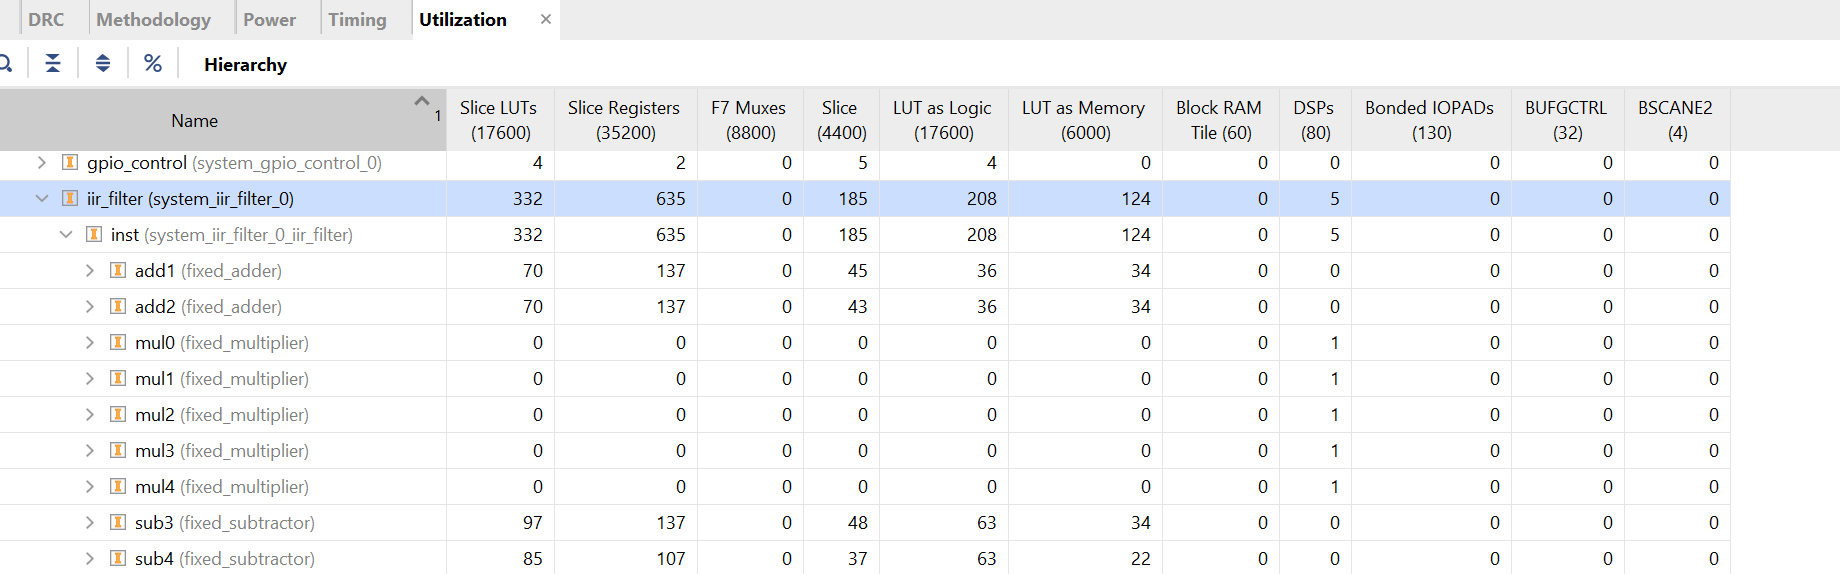
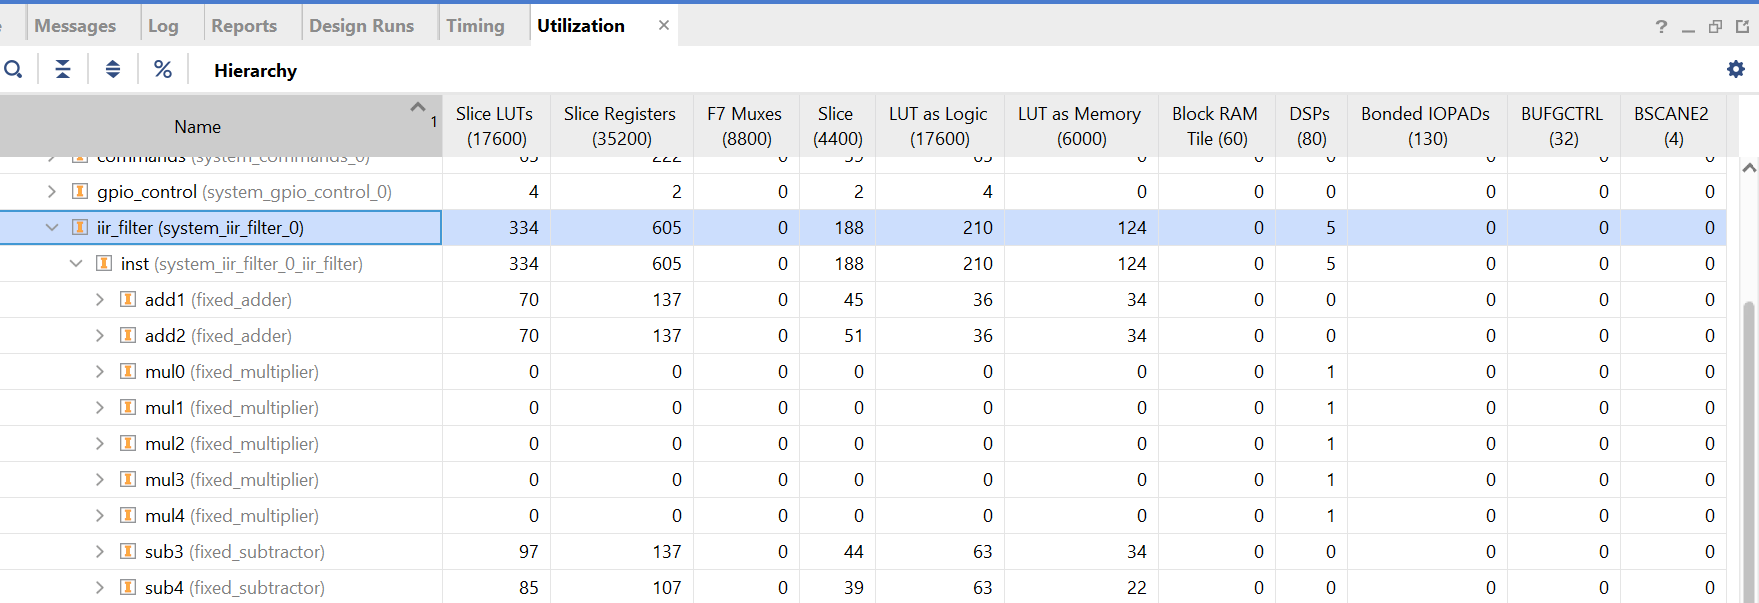
Fractions in FPGA: counter instead of busy shift register, new utilization, schematic removed

diff --git a/posts/on-request/fixed-point-scaling.md b/posts/on-request/fixed-point-scaling.md
@@ -179,13 +179,13 @@ Below is the resource usage for the practical example we'll do later, we create 
 
 ![](images/fixed-point-scaling/fig23_fp16_utilization.png)
 
-**Figure 4: FP16: 523 LUTs, 1122 registers, 13 DSPs**
+**Figure 4: FP16: 525 LUTs, 1092 registers, 13 DSPs**
 
 ![](images/fixed-point-scaling/fig22_q2_14_utilization.png)
 
-**Figure 5: Fixed point Q2.14: 332 LUTs, 635 registers, 5 DSPs**
+**Figure 5: Fixed point Q2.14: 334 LUTs, 605 registers, 5 DSPs**
 
-Compared to FP16, the fixed point filter uses 37% fewer LUTs, 43% fewer registers and 62% fewer DSPs (5 instead of 13) for the same application.
+Compared to FP16, the fixed point filter uses 36% fewer LUTs, 45% fewer registers and 62% fewer DSPs (5 instead of 13) for the same application.
 
 ## **3. Practical Example** {#sec-3}
 
@@ -455,11 +455,11 @@ module iir_filter (
     wire signed [31:0] p0, p1, p2, p3, p4; // Q2.14 * Q2.14 = Q4.28
     wire signed [35:0] s1, s2, s3, sum;    // Q8.28: 1 extra bit per addition
     wire signed [15:0] y;                  // Q2.14
-    reg  [LATENCY:0] busy;                 // where the sample is in the pipeline
+    reg  [5:0] count;                      // clocks until y is ready, 0 = idle
 
-    assign in_ready = !reset && busy == 0;
+    assign in_ready = !reset && count == 0;
 
-    // x, x1, x2, y1 and y2 do not change while busy, so no delay lines are needed.
+    // x, x1, x2, y1 and y2 don't change until y is ready, so no delay lines are needed.
     fixed_multiplier mul0 (.CLK(clk), .A(x),  .B(B0), .P(p0));
     fixed_multiplier mul1 (.CLK(clk), .A(x1), .B(B1), .P(p1));
     fixed_multiplier mul2 (.CLK(clk), .A(x2), .B(B2), .P(p2));
@@ -480,18 +480,21 @@ module iir_filter (
 
     always @(posedge clk) begin
         if (reset) begin
-            busy <= 0;
+            count     <= 0;
             out_valid <= 0;
-            out_data <= 0;
+            out_data  <= 0;
             x <= 0; x1 <= 0; x2 <= 0; y1 <= 0; y2 <= 0;
         end else begin
-            busy <= {busy[LATENCY-1:0], in_valid && in_ready};
-            out_valid <= busy[LATENCY];
+            if (in_valid && in_ready) begin
+                x     <= in_data;          // take the new sample
+                count <= LATENCY + 1;      // IP latency + 1 clock to store y
+            end else if (count != 0) begin
+                count <= count - 1;
+            end
 
-            if (in_valid && in_ready)
-                x <= in_data;
+            out_valid <= (count == 1);
 
-            if (busy[LATENCY]) begin       // y is ready
+            if (count == 1) begin          // y is ready
                 out_data <= y;
                 x2 <= x1; x1 <= x;
                 y2 <= y1; y1 <= y;
@@ -505,13 +508,13 @@ We model the same system as in Matlab, and as we know we don't need any special 
 
 - `W = 16; F = 14;` → `reg signed [15:0] x, x1, x2, y1, y2;` (line 19). 16 bit signed registers; the 14 fraction bits only exist in our heads, the hardware just sees integers.
 - `b = fi(b, T, M); a = fi(a, T, M);` → `coefficients.vh` (line 14). The same Q2.14 coefficients, exported from MATLAB as `B0` to `A2`.
-- `x = fi(x, T, M);` → `x <= in_data;` (line 57). The samples already arrive in Q2.14.
+- `x = fi(x, T, M);` → `x <= in_data;` (line 54). The samples already arrive in Q2.14.
 - `x1 = 0; x2 = 0; y1 = 0; y2 = 0;` → the reset (line 51).
 - `b(1)*x(n)` to `a(3)*y2` → `mul0` to `mul4` (lines 28–32). One multiplier per term, 16 × 16 → 32 bit Q4.28, same as in MATLAB.
 - the `+` and `−` in `value` → `add1`, `add2`, `sub3`, `sub4` (lines 37–40). A 36 bit Q8.28 `sum`, the same size as `value`.
 - `y(n) = fi(value, T, M);` → `assign y = sum;` (line 43). Back to 16 bits: the 36 bit sum is connected straight to the 16 bit `y`. Verilog keeps the lowest 16 bits, `sum[15:0]`, and drops the top 20. The simulator compiles it with no error and no warning.
-- `x2 = x1; x1 = x(n); y2 = y1; y1 = y(n);` → the same lines with `<=` (lines 61–62). The delays, z⁻¹ in the figure.
-- `for n = 1:length(x)` → `in_valid`, `in_ready`, `out_valid` and `busy`. One sample at a time; this part only moves the samples through the pipeline and is the same in every version below.
+- `x2 = x1; x1 = x(n); y2 = y1; y1 = y(n);` → the same lines with `<=` (lines 64–65). The delays, z⁻¹ in the figure.
+- `for n = 1:length(x)` → `in_valid`, `in_ready`, `out_valid` and `count`. One sample at a time; this part only moves the samples through the pipeline and is the same in every version below.
 - The plot scale here is ±2.05 instead of ±1.5, so the output fits.
 
 ##### **Simulation**
@@ -547,11 +550,11 @@ module iir_filter (
     wire signed [31:0] p0, p1, p2, p3, p4; // Q2.14 * Q2.14 = Q4.28
     wire signed [35:0] s1, s2, s3, sum;    // Q8.28: 1 extra bit per addition
     wire signed [15:0] y;                  // Q2.14
-    reg  [LATENCY:0] busy;                 // where the sample is in the pipeline
+    reg  [5:0] count;                      // clocks until y is ready, 0 = idle
 
-    assign in_ready = !reset && busy == 0;
+    assign in_ready = !reset && count == 0;
 
-    // x, x1, x2, y1 and y2 do not change while busy, so no delay lines are needed.
+    // x, x1, x2, y1 and y2 don't change until y is ready, so no delay lines are needed.
     fixed_multiplier mul0 (.CLK(clk), .A(x),  .B(B0), .P(p0));
     fixed_multiplier mul1 (.CLK(clk), .A(x1), .B(B1), .P(p1));
     fixed_multiplier mul2 (.CLK(clk), .A(x2), .B(B2), .P(p2));
@@ -572,18 +575,21 @@ module iir_filter (
 
     always @(posedge clk) begin
         if (reset) begin
-            busy <= 0;
+            count     <= 0;
             out_valid <= 0;
-            out_data <= 0;
+            out_data  <= 0;
             x <= 0; x1 <= 0; x2 <= 0; y1 <= 0; y2 <= 0;
         end else begin
-            busy <= {busy[LATENCY-1:0], in_valid && in_ready};
-            out_valid <= busy[LATENCY];
+            if (in_valid && in_ready) begin
+                x     <= in_data;          // take the new sample
+                count <= LATENCY + 1;      // IP latency + 1 clock to store y
+            end else if (count != 0) begin
+                count <= count - 1;
+            end
 
-            if (in_valid && in_ready)
-                x <= in_data;
+            out_valid <= (count == 1);
 
-            if (busy[LATENCY]) begin       // y is ready
+            if (count == 1) begin          // y is ready
                 out_data <= y;
                 x2 <= x1; x1 <= x;
                 y2 <= y1; y1 <= y;
@@ -610,7 +616,7 @@ This is the main thing that needs to be handled differently from normal integer 
 
 The sum coming out of the adders is 36 bits, Q8.28: the sign and 7 integer bits, then 28 fraction bits. So its binary point sits between bit 28 and bit 27. Our output `y` is Q2.14, so the 16 bits we keep have to sit around that same binary point: 2 bits above it (the sign and the integer bit) and 14 below it.
 
-Let's take one real sum from our filter, sample 68, the output peak where the cursor is in Figure 15. Its value is 1.0019834, and in bits:
+Let's take one real sum from our filter, sample 68, the output peak where the cursor is in Figure 14. Its value is 1.0019834, and in bits:
 
 ```
              integer bits             fraction bits
@@ -671,11 +677,11 @@ module iir_filter (
     wire signed [31:0] p0, p1, p2, p3, p4; // Q2.14 * Q2.14 = Q4.28
     wire signed [35:0] s1, s2, s3, sum;    // Q8.28: 1 extra bit per addition
     wire signed [15:0] y;                  // Q2.14
-    reg  [LATENCY:0] busy;                 // where the sample is in the pipeline
+    reg  [5:0] count;                      // clocks until y is ready, 0 = idle
 
-    assign in_ready = !reset && busy == 0;
+    assign in_ready = !reset && count == 0;
 
-    // x, x1, x2, y1 and y2 do not change while busy, so no delay lines are needed.
+    // x, x1, x2, y1 and y2 don't change until y is ready, so no delay lines are needed.
     fixed_multiplier mul0 (.CLK(clk), .A(x),  .B(B0), .P(p0));
     fixed_multiplier mul1 (.CLK(clk), .A(x1), .B(B1), .P(p1));
     fixed_multiplier mul2 (.CLK(clk), .A(x2), .B(B2), .P(p2));
@@ -701,18 +707,21 @@ module iir_filter (
 
     always @(posedge clk) begin
         if (reset) begin
-            busy <= 0;
+            count     <= 0;
             out_valid <= 0;
-            out_data <= 0;
+            out_data  <= 0;
             x <= 0; x1 <= 0; x2 <= 0; y1 <= 0; y2 <= 0;
         end else begin
-            busy <= {busy[LATENCY-1:0], in_valid && in_ready};
-            out_valid <= busy[LATENCY];
+            if (in_valid && in_ready) begin
+                x     <= in_data;          // take the new sample
+                count <= LATENCY + 1;      // IP latency + 1 clock to store y
+            end else if (count != 0) begin
+                count <= count - 1;
+            end
 
-            if (in_valid && in_ready)
-                x <= in_data;
+            out_valid <= (count == 1);
 
-            if (busy[LATENCY]) begin       // y is ready
+            if (count == 1) begin          // y is ready
                 out_data <= y;
                 x2 <= x1; x1 <= x;
                 y2 <= y1; y1 <= y;
@@ -726,21 +735,17 @@ endmodule
 - Truncation wiring: keeps bits [29:14] of the 36 bit Q8.28 sum. That drops the lowest 14 bits (the extra fraction bits) and the top 6 bits (the extra integer bits), leaving 16 bit Q2.14. This is what `fi(value, T, M)` does in MATLAB.
 - No rounding and no saturation: dropping the low bits rounds down, and dropping the top bits is safe because with the correct format they are only copies of the sign bit.
 
-<div style="overflow-x:auto"><img src="images/fixed-point-scaling/fig07c_iir_q2_14_elaborated_datapath.png" style="height:500px;max-width:none"></div>
-
-**Figure 14: Elaborated schematic of the Q2.14 filter in Vivado**
-
 ##### **Simulation**
 
 ![](images/fixed-point-scaling/fig15_vivado_q2_14.png)
 
-**Figure 15: Simulation of `assign y = sum[29:14];`, output RMS: 0.698438**
+**Figure 14: Simulation of `assign y = sum[29:14];`, output RMS: 0.698438**
 
 ##### **On Board Testing**
 
 ![](images/fixed-point-scaling/fig20_board_q2_14.png)
 
-**Figure 16: ILA capture on the Zybo, output RMS: 0.698438**
+**Figure 15: ILA capture on the Zybo, output RMS: 0.698438**
 
 #### **Floating Point (FP16)**
 
@@ -769,11 +774,11 @@ module iir_filter (
     wire [15:0] p0, p1, p2, p3, p4;        // FP16 * FP16 = FP16 (rounded by the IP)
     wire [15:0] s1, s2, s3;                // running sum, FP16
     wire [15:0] y;                         // FP16
-    reg  [LATENCY:0] busy;                 // where the sample is in the pipeline
+    reg  [5:0] count;                      // clocks until y is ready, 0 = idle
 
-    assign in_ready = !reset && busy == 0;
+    assign in_ready = !reset && count == 0;
 
-    // x, x1, x2, y1 and y2 do not change while busy, so no delay lines are needed.
+    // x, x1, x2, y1 and y2 don't change until y is ready, so no delay lines are needed.
     fp_multiplier mul0 (.aclk(clk), .s_axis_a_tvalid(1'b1), .s_axis_a_tdata(x),
                         .s_axis_b_tvalid(1'b1), .s_axis_b_tdata(B0), .m_axis_result_tdata(p0));
     fp_multiplier mul1 (.aclk(clk), .s_axis_a_tvalid(1'b1), .s_axis_a_tdata(x1),
@@ -801,18 +806,21 @@ module iir_filter (
 
     always @(posedge clk) begin
         if (reset) begin
-            busy <= 0;
+            count     <= 0;
             out_valid <= 0;
-            out_data <= 0;
+            out_data  <= 0;
             x <= 0; x1 <= 0; x2 <= 0; y1 <= 0; y2 <= 0;
         end else begin
-            busy <= {busy[LATENCY-1:0], in_valid && in_ready};
-            out_valid <= busy[LATENCY];
+            if (in_valid && in_ready) begin
+                x     <= in_data;          // take the new sample
+                count <= LATENCY + 1;      // IP latency + 1 clock to store y
+            end else if (count != 0) begin
+                count <= count - 1;
+            end
 
-            if (in_valid && in_ready)
-                x <= in_data;
+            out_valid <= (count == 1);
 
-            if (busy[LATENCY]) begin       // y is ready
+            if (count == 1) begin          // y is ready
                 out_data <= y;
                 x2 <= x1; x1 <= x;
                 y2 <= y1; y1 <= y;
@@ -827,26 +835,26 @@ endmodule
 - `fp_multiplier`: AMD Floating-Point IP set to multiply, 3 cycles, in place of the Multiplier IP.
 - `fp_adder`, `fp_subtractor`: the same IP set to add and subtract, 8 cycles. Same number of IPs and same latency as the fixed point version.
 - The adds are in the same order as in MATLAB, because every result is rounded to FP16 and the order changes the result.
-- `s_axis_a_tvalid(1'b1)`: the IP inputs are always valid, `busy` does the timing instead.
+- `s_axis_a_tvalid(1'b1)`: the IP inputs are always valid, `count` does the timing instead.
 - No truncation wiring: the IP rounds every result back to 16 bits itself.
 
 ##### **Simulation**
 
 ![](images/fixed-point-scaling/fig13_vivado_fp16.png)
 
-**Figure 17: FP16 simulation, output RMS: 0.696214**
+**Figure 16: FP16 simulation, output RMS: 0.696214**
 
 ##### **On Board Testing**
 
 ![](images/fixed-point-scaling/fig18_board_fp16.png)
 
-**Figure 18: FP16 ILA capture on the Zybo, shown in hex**
+**Figure 17: FP16 ILA capture on the Zybo, shown in hex**
 
 Vivado's ILA can show 32 and 64 bit floating point values, but not 16 bit (FP16) ones, so the capture is shown in hex. If we switch it to analog, it plots the raw bits as if they were integers, and the sign bit and the exponent turn the sine into a square wave. So below is the same capture, decoded to FP16 values and plotted:
 
 ![](images/fixed-point-scaling/fig27_board_fp16_decoded.png)
 
-**Figure 19: FP16 ILA capture, decoded, output RMS: 0.696214**
+**Figure 18: FP16 ILA capture, decoded, output RMS: 0.696214**
 
 Output RMS from MATLAB to the board:
 
@@ -870,7 +878,7 @@ And on an FPGA it also uses a lot less resources, as we saw in section 2. So if 
 ## **5. Summary** {#sec-5}
 
 - With the same number of bits, both formats have the same number of values. Floating point spreads them wider, with increasing gaps.
-- Floating point needs extra hardware, so it uses more resources. Our fixed point filter used 37% fewer LUTs, 43% fewer registers and 62% fewer DSPs.
+- Floating point needs extra hardware, so it uses more resources. Our fixed point filter used 36% fewer LUTs, 45% fewer registers and 62% fewer DSPs.
 - With fixed point, we choose the format so the largest value fits. Q1.15 didn't work for our filter, Q2.14 did.
 - We also have to truncate at the right bits: `sum[29:14]`. This is the main thing to take care of while working with fixed point numbers in RTL.
 - With the right format and truncation, the fixed point filter matched MATLAB bit for bit, in simulation and on the board. For this test it was also closer to the double result than FP16 (RMSE 0.0007 vs 0.0021).
